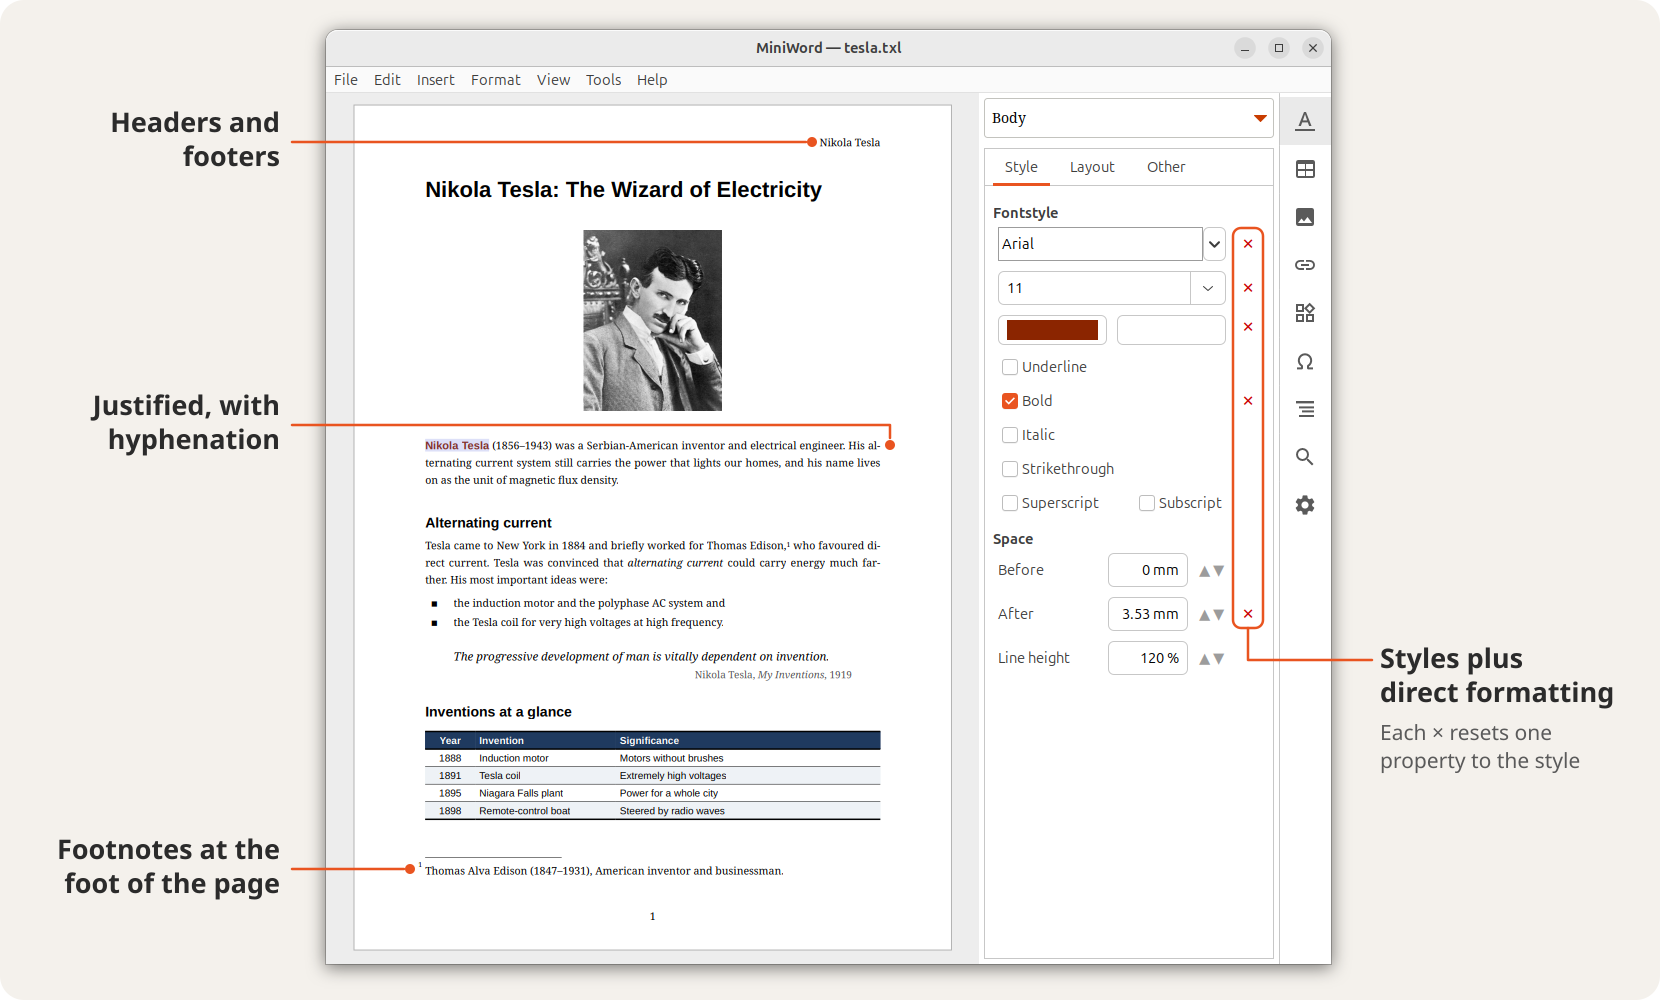
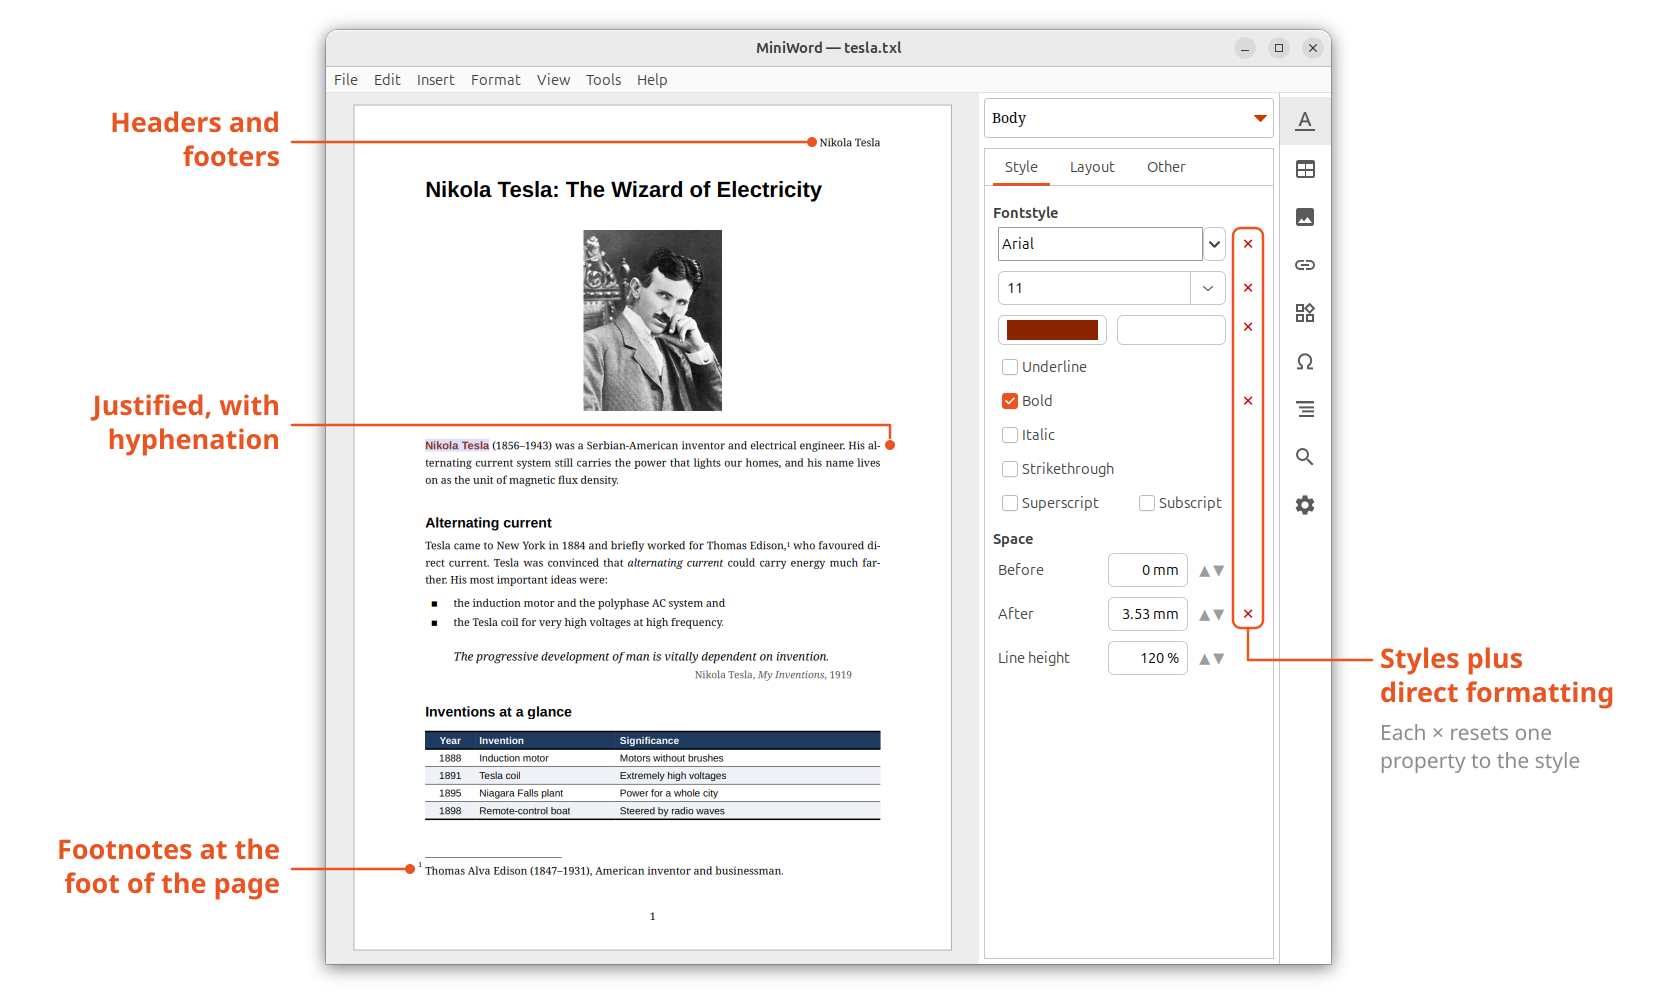
README: hero image, absolute links (also for PyPI)

diff --git a/README.md b/README.md
@@ -7,7 +7,7 @@ A small desktop word processor that typesets real pages and stores your document
 **[⬇ Download for Windows, macOS and Linux](https://github.com/chrisecker/miniword/releases)**
 
 <!-- hero.png is exported from screenshots/hero/hero.svg (Inkscape) -->
-![MiniWord editing a page with a photo, footnote and table; the inspector shows the local formatting of the selected words](https://codeberg.org/chrisecker/miniword/raw/branch/readme/screenshots/hero/hero.png)
+![MiniWord editing a page with a photo, footnote and table; the inspector shows the local formatting of the selected words](https://codeberg.org/chrisecker/miniword/raw/branch/main/screenshots/hero/hero.png)
 
 ## Why MiniWord
 
@@ -23,14 +23,14 @@ MiniWord is young but already usable. Please keep backups of important documents
 
 ## Install
 
-Download the installer for Windows (`.exe`), macOS (`.dmg`) or Linux (`.deb`, `.rpm`) from the [Releases page](https://github.com/chrisecker/miniword/releases). On Linux, MiniWord can also be installed with pip. Details and other systems: see [INSTALL.md](INSTALL.md).
+Download the installer for Windows (`.exe`), macOS (`.dmg`) or Linux (`.deb`, `.rpm`) from the [Releases page](https://github.com/chrisecker/miniword/releases). On Linux, MiniWord can also be installed with pip. Details and other systems: see [INSTALL.md](https://codeberg.org/chrisecker/miniword/src/branch/main/INSTALL.md).
 
 ## Documentation
 
-- [Command line](docs/commandline.md): convert documents without a window, e.g. `miniword report.md -o report.pdf`
-- [Plugins](docs/plugins.md): install Python plugins, with examples
-- [File format](docs/txl_format.md): the `.txl` format
-- [Hacking](docs/hacking.md): run the tests and demos
+- [Command line](https://codeberg.org/chrisecker/miniword/src/branch/main/docs/commandline.md): convert documents without a window, e.g. `miniword report.md -o report.pdf`
+- [Plugins](https://codeberg.org/chrisecker/miniword/src/branch/main/docs/plugins.md): install Python plugins, with examples
+- [File format](https://codeberg.org/chrisecker/miniword/src/branch/main/docs/txl_format.md): the `.txl` format
+- [Hacking](https://codeberg.org/chrisecker/miniword/src/branch/main/docs/hacking.md): run the tests and demos
 
 ## License
 
